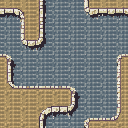
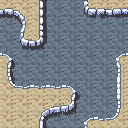
Rework Ring 1 ground + props (PixelLab)
Replace the Ring 1 ground with a seamless, muted cool grey-blue stone
tileset and add concept-art set-dressing, matching the Pale Reaches GDD
art and scaling to the warrior.

- ground.tres: single-stone-source stone/path corner-match Wang set
  (v2 e829f3a7), replacing the v1 set. Drops the flora atlas — two
  distinct stone images under one terrain made Godot's corner matcher
  pick between them. Flora is now a prop.
- ground_layer.gd: paints stone-only. The generated tan path read poorly
  in-engine (hard bordered edge create_topdown_tileset can't avoid), so
  the path is deferred; path tiles remain in the atlas.
- 8 map-object props (transparent, iso camera) in assets/tiles/ring1/props/:
  domed ruin, archway, bunting, ruined wall, monolith, rubble, flora
  (color-clamped), dead shrub. Wired into main.tscn as Y-sorted,
  base-anchored sprites.
- build_ring1_tilesets.gd + RING1_TILES.md updated to match.

Verified: build OK, main.tscn loads headless, live render confirms
seamless stone + props. Cliffs unchanged this pass.

diff --git a/docs/RING1_TILES.md b/docs/RING1_TILES.md
@@ -6,12 +6,19 @@ import + wiring reference only.
 
 ## Source
 
-Tiles generated with PixelLab (top-down Wang / corner-based autotiling).
-The Cowork sandbox can't reach `api.pixellab.ai`, so assets are fetched locally.
+Generated with the PixelLab MCP server (reachable from this environment — no
+local `fetch_tiles.sh` needed). Two tools, chosen by job:
 
-```
-cd assets/tiles/ring1 && bash fetch_tiles.sh
-```
+- **Seamless ground** → `create_topdown_tileset` (corner-based Wang). This is the
+  only PixelLab tool that produces *seamless repeating* terrain + peering metadata.
+- **Props / set-dressing** → `create_map_object` (transparent-background objects).
+
+`create_tiles_pro` was tried first for the ground (48px, wanting a chunkier feel)
+and **rejected**: it makes discrete bounded tiles, not seamless terrain — multi-
+material calls baked hard seams *inside* tiles, and a uniform single-material call
+in segmentation mode produced empty tiles. Use it for discrete tiles only, never
+for seamless ground. Props are kept on an isometric ("high top-down") camera to
+match the GDD concept art; the warrior reads slightly flatter (accepted).
 
 ## Palette (locked — The Pale Reaches)
 
@@ -28,26 +35,40 @@ higher saturation than natural terrain (built when the world had more warmth).
 
 ## Tilesets
 
-### Ground → Path  (`ground_path.png`)
-- PixelLab tileset id: `3769b303-59b4-4f70-945d-bfb58ea8a74c`
-- 16 tiles, 32×32 px, high top-down, selective outline / medium shading / medium detail
-- Corner-based (Wang) autotile: **lower = pale grey-blue stone**, **upper = faint tan path**
+### Ground → Path  (`ground_path.png`)  — v2, current
+- PixelLab tileset id: `e829f3a7-7f22-4ef3-8264-38a4e72ad6c2`
+- 16 tiles, 32×32 px, high top-down, selective outline / medium shading / **low detail**
+- Corner-based (Wang) autotile: **lower = bare cool grey-blue stone**, **upper = faint worn tan path**
+- Verified seamless (3×3 self-tile of the all-stone tile shows no seams).
 - Base tile IDs (for chaining future connected sets in PixelLab):
-  - ground (lower): `61b9b31b-62ed-481d-ba6b-9d044f2a604c`  ← chain flora off this
-  - path (upper): `581d9b25-7696-40f2-aaf8-7c10b520486b`
+  - stone (lower): `1054154d-a21a-4d77-af07-503032fcb646`
+  - path (upper): `8898cf71-0ef4-4b20-a8b1-a6155095f1c9`
 - `ground_path.metadata.json` holds the per-tile corner values for terrain/peering setup.
+- Replaced the v1 set (`3769b303-…`, "not ideal"). The old `ground_flora.png`
+  (`13fd8f44-…`) is **no longer wired** — flora is now props (below). It chained off a
+  *different* stone base (`61b9b31b-…`), so it must not be re-added to `ground.tres`
+  (two distinct stone images under one `stone` terrain → Godot's corner matcher picks
+  between them and the rework silently regresses).
 
-### Ground → Flora  (`ground_flora.png`)
-- PixelLab tileset id: `13fd8f44-82bd-4952-a431-d2ab0cabc728`
-- 16 tiles, 32×32 px, high top-down, selective outline / medium shading / medium detail
-- **Chained off the same ground base** (`61b9b31b-…`) as Ground→Path, so the stone
-  edges are identical — the two sets share a ground terrain and tile together cleanly.
-- Corner-based (Wang) autotile: **lower = pale grey-blue stone**, **upper = pale translucent flora cluster** (`#D4DCE8`)
-- Base tile IDs:
-  - ground (lower): `61b9b31b-62ed-481d-ba6b-9d044f2a604c`
-  - flora (upper): `9336976c-25ef-4e20-8ecc-950a4b0ee857`
-- In one Godot Terrain Set, make "stone" the shared base terrain, then add "path" and
-  "flora" as two more terrains painting over it — both share the same ground edge.
+### Props  (`props/*.png`)  — `create_map_object`, transparent bg, high top-down
+Discrete set-dressing placed by hand (Y-sorted), not autotiled. Matches the GDD
+concept art's Pale Reaches (ruins, standing stones, bunting, pale flora).
+
+| File | px | PixelLab object id |
+|------|----|--------------------|
+| `ruin.png` (domed ruin, hero) | 160×160 | `7ada9220-7202-4f8e-9a49-aa09e2835697` |
+| `archway.png` (broken arch) | 112×112 | `bbf89273-cec9-488f-8de3-4adba6211940` |
+| `bunting.png` (faded pennants) | 112×80 | `6c93567c-250d-4ef3-bc58-37cbac59395c` |
+| `wall.png` (ruined wall) | 96×64 | `f06540c7-8227-4d3c-8c86-2df16046d6c7` |
+| `monolith.png` (standing stone) | 48×64 | `eaae4872-7fff-44b8-bde2-695380acf11e` |
+| `rubble.png` (broken blocks) | 64×48 | `aa12e9bd-5122-4bd8-a18a-65470ec37985` |
+| `flora.png` (pale clump) | 48×48 | `f622478e-1be5-49dc-8a6b-f3cfd756bfe7` |
+| `shrub.png` (dead shrub) | 56×72 | `0878a945-a58d-415c-8948-55b6703e69b6` |
+
+`flora.png` was color-clamped after generation (it generated pink) toward the cool
+palette. Map objects auto-delete from PixelLab after 8h — the PNGs here are the
+source of truth. Wired in `main.tscn` as `Sprite2D`s (`centered=false`,
+`offset=(-w/2,-h)` so each sorts by its base).
 
 ### Plateau / Cliff edges  (`cliff.png`)
 - PixelLab tileset id: `30a69993-5a78-49ec-952f-3ffc3ae35a92`
@@ -81,13 +102,12 @@ metadata. Re-run headless after re-fetching:
     --script res://scripts/build_ring1_tilesets.gd
 ```
 
-- **`ground.tres`** — both ground PNGs as two atlas sources in **one corner-match
-  terrain set** with three terrains: `stone` (0, shared base), `path` (1), `flora` (2).
-  Path tiles map `lower→stone / upper→path`; flora tiles map `lower→stone / upper→flora`,
-  so the two sets share the stone edge and tile together. Corner mapping is
-  `NW→top-left, NE→top-right, SE→bottom-right, SW→bottom-left`. The build script
-  reloads the result and asserts the terrain set/count/mode and spot-checks the
-  all-stone / all-path tiles' peering bits.
+- **`ground.tres`** — the v2 `ground_path.png` as a **single** atlas source in one
+  corner-match terrain set with two terrains: `stone` (0) and `path` (1)
+  (`lower→stone / upper→path`). Single stone image — no competing all-stone tiles.
+  Corner mapping is `NW→top-left, NE→top-right, SE→bottom-right, SW→bottom-left`.
+  The build script reloads the result and asserts terrain set count = 1, terrains = 2,
+  mode = MATCH_CORNERS, and spot-checks the all-stone / all-path tiles' peering bits.
 - **`cliff.tres`** — atlas source over the full 4×8 cell grid (32 non-empty tiles) plus
   one empty physics layer (scaffold). **Terrain matching and per-tile collision/Y-sort
   are NOT wired** — the upstream cliff metadata's tile placement is unreliable
@@ -97,12 +117,25 @@ metadata. Re-run headless after re-fetching:
 
 ## Status / next
 
-- [x] Ground → Path (muted v2) generated. First attempt `281d78b1-…` discarded (too saturated).
-- [x] Ground → Flora generated, chained off ground base `61b9b31b-…` (pale translucent clusters, `#D4DCE8`).
-- [x] Plateau / cliff edges generated (full-height transition, plateau top reuses ground base).
-- [x] Fetched tiles + built `ground.tres` (stone/path/flora corner-match terrain set, verified).
-- [x] Built `cliff.tres` atlas + physics-layer scaffold.
-- [x] Playtest wiring: `scenes/tile_test.tscn` (standalone) and `main.tscn` paint `ground.tres`
-  via `scripts/ground_layer.gd` (runtime `set_cells_terrain_connect`, demo path cross + flora
-  patch). Verified headless: 135/135 cells autotile, no missing-tile errors.
-- [ ] Wire cliff terrain matching + cliff-face collision / Y-sort in the editor (metadata unusable).
+- [x] **Reworked ground** (v2 `e829f3a7-…`, stone→path, muted/low-detail). Verified
+  seamless via 3×3 self-tile. Replaced v1 (`3769b303-…`).
+- [x] **Props** generated via `create_map_object` (ruin, archway, bunting, wall,
+  monolith, rubble, flora, shrub) → `props/`. `flora.png` color-clamped.
+- [x] Rebuilt `ground.tres` (single-stone-source stone/path corner-match set) —
+  `build_ring1_tilesets.gd` BUILD OK, verify passed (sets=1, terrains=2, peering OK).
+- [x] `ground_layer.gd` paints **stone only** (`layout = PLAIN_STONE`). Flora dropped.
+- [x] Props wired into `main.tscn` as Y-sorted `Sprite2D`s.
+- [x] **Confirmed in a live render** (windowed Godot, captured frame): seamless
+  stone, all 8 props correct, cohesive palette, sane occlusion.
+- [ ] **No path — stone-only by decision.** The atlas still holds the v2 path tiles
+  but they're not painted. `create_topdown_tileset` **cannot** produce the soft,
+  borderless, same-level worn trail the GDD wants — three attempts all drew a hard
+  bordered edge between terrains (selective-outline → white rim; `transition_size`
+  0.5 → raised ledge + drop-shadow; 0.0 + lineless + flat → stone-brick curb with a
+  dark outline). The tool is for *distinct* terrains (water↔grass), not subtle
+  same-ground trails. **Do not re-run `create_topdown_tileset` for the path.** If a
+  path is wanted later, make it **soft `create_map_object` decals** (transparent
+  dust-trail segments) placed/scattered over the stone, like the other props.
+- [ ] **Cliff unchanged** — `cliff.tres` is still the old v1 scaffold (`30a69993-…`);
+  terrain matching + cliff-face collision/Y-sort still unwired (metadata unreliable).
+- [ ] Optional: a few stone variation tiles to break the faint single-tile repeat.
